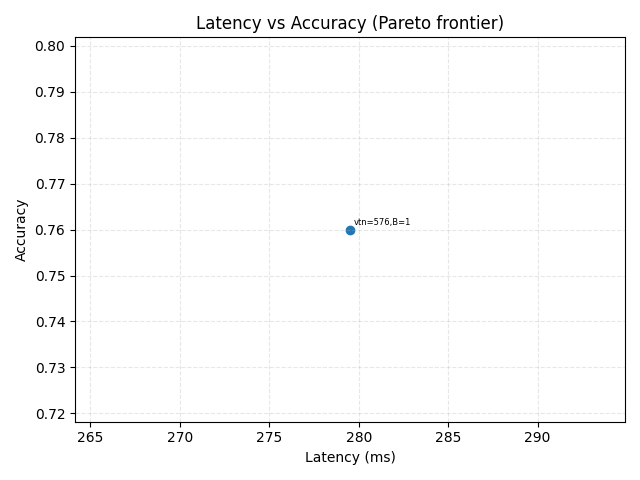
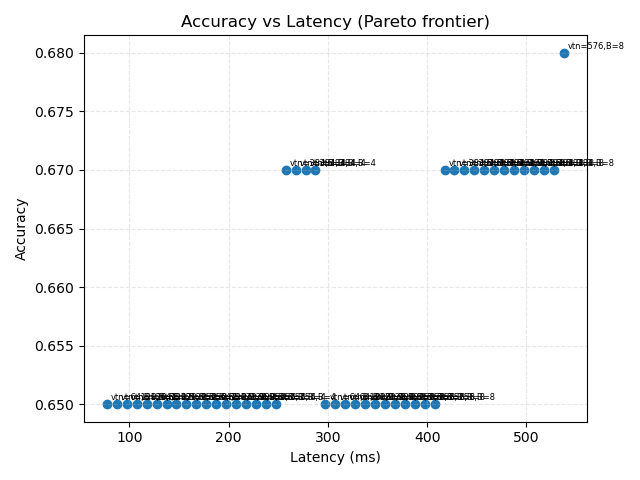
allow static specs to server + generate shorter traces: for exps

diff --git a/send_requests_to_cdpruner_server_async.py b/send_requests_to_cdpruner_server_async.py
@@ -11,6 +11,8 @@ import aiohttp
 REQUEST_SLO_MS = float(os.getenv("CDPRUNER_REQUEST_SLO_MS", "300"))
 slo_violated_count = 0 
 slo_violated_count_lock = asyncio.Lock() 
+METRICS: List[Dict] = []
+metrics_lock = asyncio.Lock()
 
 def load_trace(path: str) -> List[Dict]:
     events = []
@@ -50,10 +52,21 @@ async def send_request(session: aiohttp.ClientSession, base_url: str, idx: int, 
     finish_time = time.time()
     latency_ms = (finish_time - send_time) * 1000.0
     deadline = ev.get("deadline_ms")
-
+    slo_miss = False
     if latency_ms > REQUEST_SLO_MS: # TODO: use REQUEST_SLO_MS or deadline?
         async with slo_violated_count_lock:
             slo_violated_count += 1
+        slo_miss = True
+    # record metrics for offline analysis
+    record = {
+        "idx": idx,
+        "arrival_time": ev.get("arrival_time"),
+        "latency_ms": latency_ms,
+        "deadline_ms": deadline,
+        "slo_miss": slo_miss,
+    }
+    async with metrics_lock:
+        METRICS.append(record)
 
     print(
         f"[{idx}] Q: {ev['question']!r} "
@@ -90,9 +103,16 @@ def main():
                         help="Base URL of FastAPI server (without /generate).")
     parser.add_argument("--max-reqs", type=int, default=None,
                         help="Optional cap on number of requests to replay.")
+    parser.add_argument("--metrics-out", type=str, default=None,
+                        help="Optional JSONL file to write per-request metrics.")
+
     args = parser.parse_args()
 
     asyncio.run(replay_trace(args.trace_path, args.server_url, args.max_reqs))
+    if args.metrics_out is not None:
+        with open(args.metrics_out, "w", encoding="utf-8") as f:
+            for rec in METRICS:
+                f.write(json.dumps(rec) + "\n")
 
     print(f"\nTotal SLO Violations: {slo_violated_count}")
 

diff --git a/gen_gqa_traces.py b/gen_gqa_traces.py
@@ -162,17 +162,30 @@ def gen_bursty(
     return ts
 
 
-def write_trace(out_path: Path, arrivals: List[float], items: List[GqaItem], 
-                max_new_tokens: int, deadline_ms: int, pruning_ratio: Optional[float],
-                gt_lookup: Dict[Tuple[Optional[int], str], str]) -> int:
+from typing import Optional
+
+def write_trace(
+    out_path: Path,
+    arrivals: List[float],
+    items: List[GqaItem],
+    max_new_tokens: int,
+    deadline_ms: int,
+    pruning_ratio: Optional[float],
+    gt_lookup: Dict[Tuple[Optional[int], str], str],
+    max_reqs: Optional[int] = None,
+) -> int:
     out_path.parent.mkdir(parents=True, exist_ok=True)
-    n=0
+    n = 0
     with out_path.open("w", encoding="utf-8") as f:
-        qi=0
+        qi = 0
         for a in arrivals:
+            if max_reqs is not None and n >= max_reqs:
+                break
+
             it = items[qi % len(items)]
             qi += 1
             gt = gt_lookup.get(it.question_id)
+
             row = {
                 "arrival_time": float(a),
                 "image_path": it.image_path,
@@ -216,6 +229,13 @@ def parse_args():
         required=True,
         help="Output JSONL path",
     )
+    p.add_argument(
+        "--max-reqs",
+        type=int,
+        default=None,
+        help="Optional cap on number of requests to emit into the trace.",
+    )
+
 
     # existing arrival-process args...
     p.add_argument("--qps", type=float, help="Mean QPS for constant/timevary")
@@ -299,8 +319,9 @@ def main() -> None:
         items=items,
         max_new_tokens=args.max_new_tokens,
         deadline_ms=args.deadline_ms,
-        pruning_ratio=None,          # or args.pruning_ratio if you add one later
+        pruning_ratio=None,
         gt_lookup=gt_lookup,
+        max_reqs=args.max_reqs,
     )
 
 

diff --git a/serve_cdpruner_fastapi.py b/serve_cdpruner_fastapi.py
@@ -12,6 +12,9 @@ from pydantic import BaseModel
 import os
 from llava.serve.profiler import run_profiler, set_visual_tokens
 SCHEDULER_PROFILE = None  # filled at startup
+FIXED_VTN = os.getenv("CDPRUNER_FIXED_VTN")   # e.g. "576" or None
+FIXED_BATCH = os.getenv("CDPRUNER_FIXED_BATCH")  # e.g. "4" or None
+
 # Fixed SLO for all requests (ms)
 REQUEST_SLO_MS = float(os.getenv("CDPRUNER_REQUEST_SLO_MS", "300"))
 
@@ -102,6 +105,15 @@ def decide_control(metrics: QueueMetrics):
     """
     if metrics.queue_length == 0:
         return None, 0
+    
+    # Fixed-baseline mode: ignore SCHEDULER_PROFILE and just return (vtn, B)
+    if FIXED_VTN is not None and FIXED_BATCH is not None:
+        vtn = int(FIXED_VTN)
+        requested_B = int(FIXED_BATCH)
+        B = min(requested_B, metrics.queue_length, MAX_BATCH_SIZE)
+        if B <= 0:
+            return None, 0
+        return vtn, B
 
     global SCHEDULER_PROFILE
     if SCHEDULER_PROFILE is None or not SCHEDULER_PROFILE.get("buckets"):
@@ -180,7 +192,7 @@ def build_prompts_and_questions(
         conv.append_message(conv.roles[1], None)
         prompt = conv.get_prompt()
 
-        questions.append(raw_q)
+        questions.append(raw_q + "\n Your output should be a single word / phrase.")
         prompts.append(prompt)
 
     return questions, prompts
@@ -329,7 +341,7 @@ async def startup_event():
 
     global SCHEDULER_PROFILE
 
-    trace_path = os.getenv("CDPRUNER_PROFILE_TRACE", "traces/sample_trace.jsonl")
+    trace_path = os.getenv("CDPRUNER_PROFILE_TRACE", "/home/hice1/istephen3/CDPruner/traces/sample_trace.jsonl")
 
     visual_token_nums = [576, 384, 256, 128, 64]
     batch_sizes = [1, 2, 4, 8]
